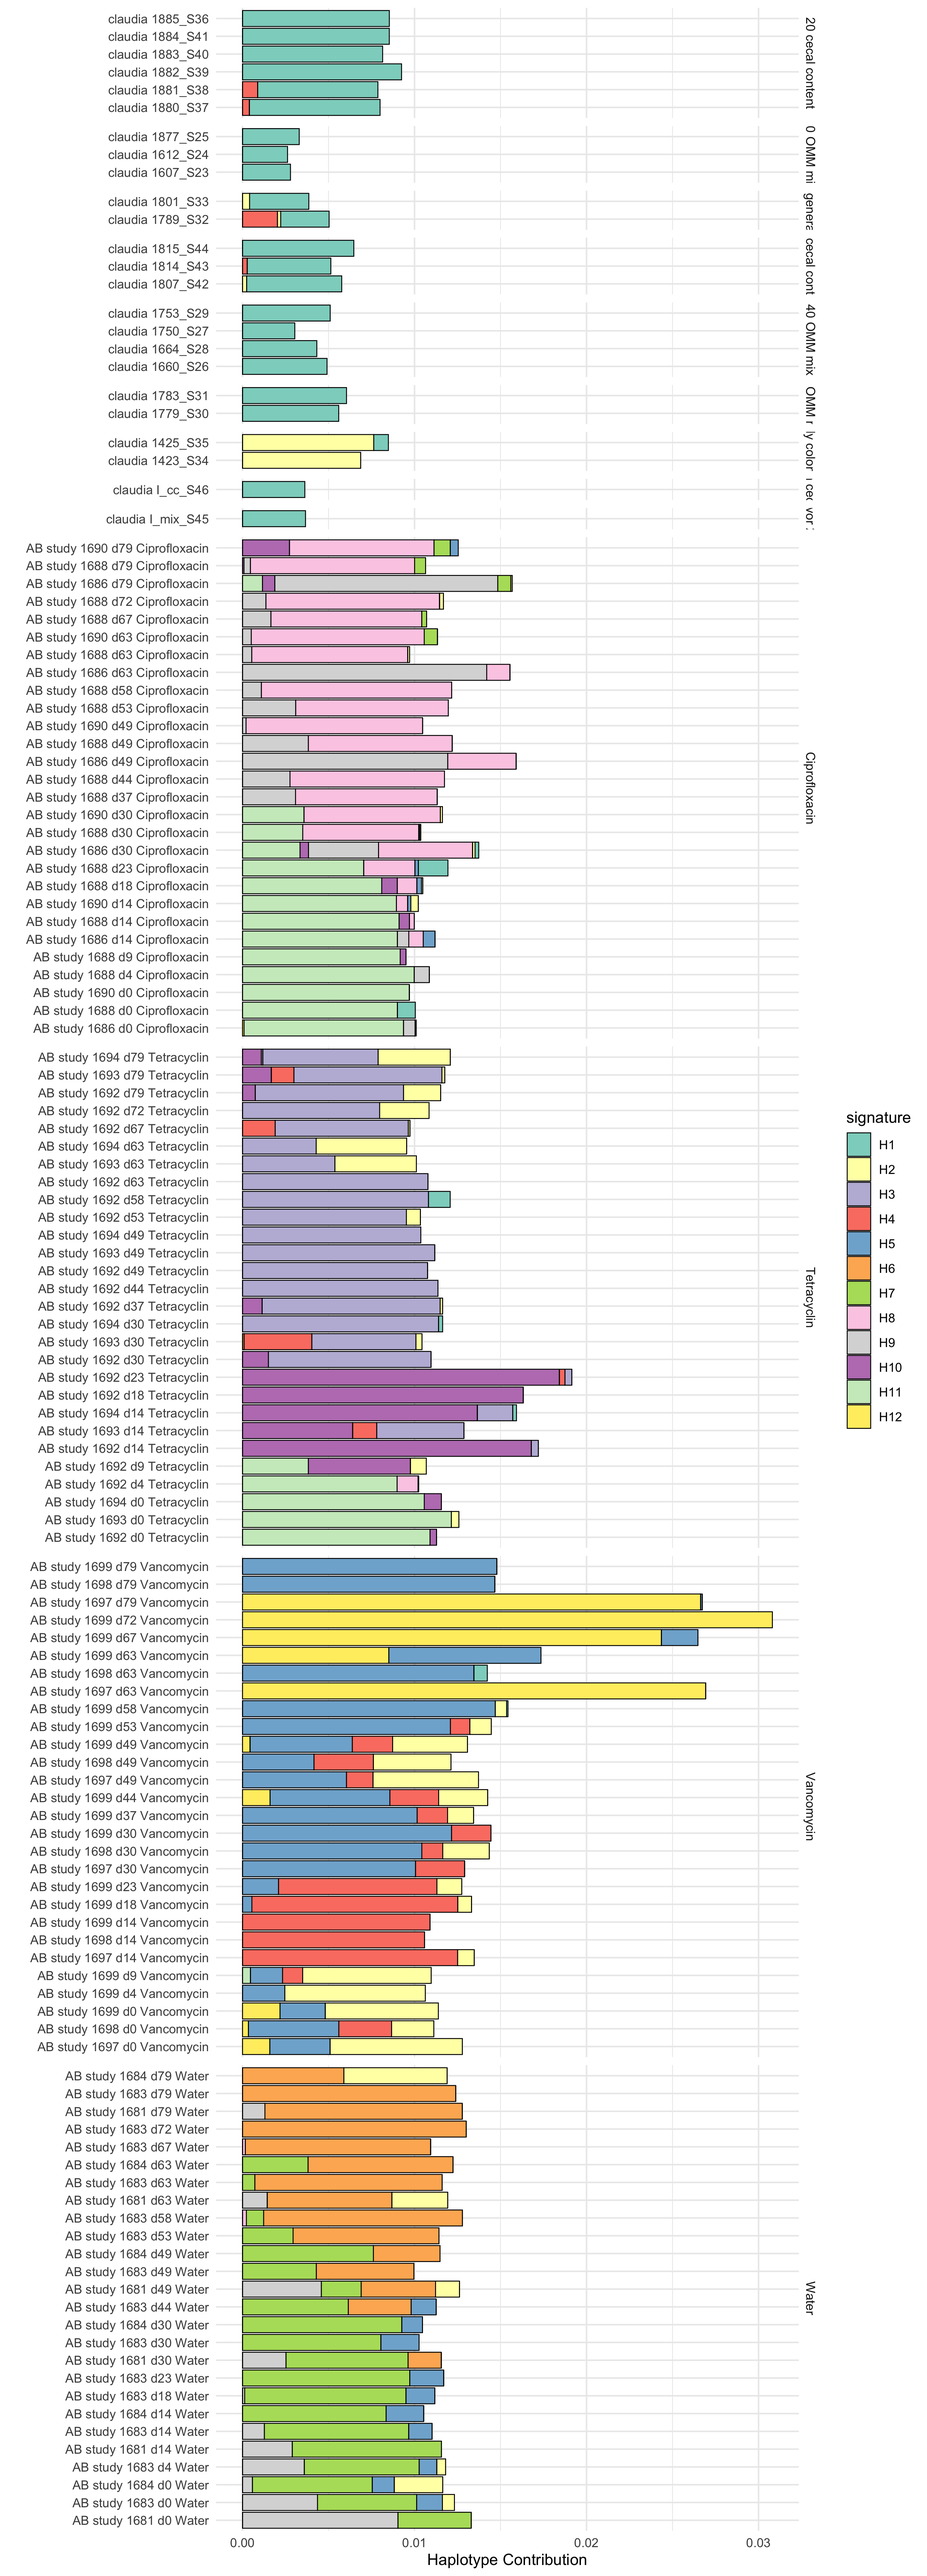
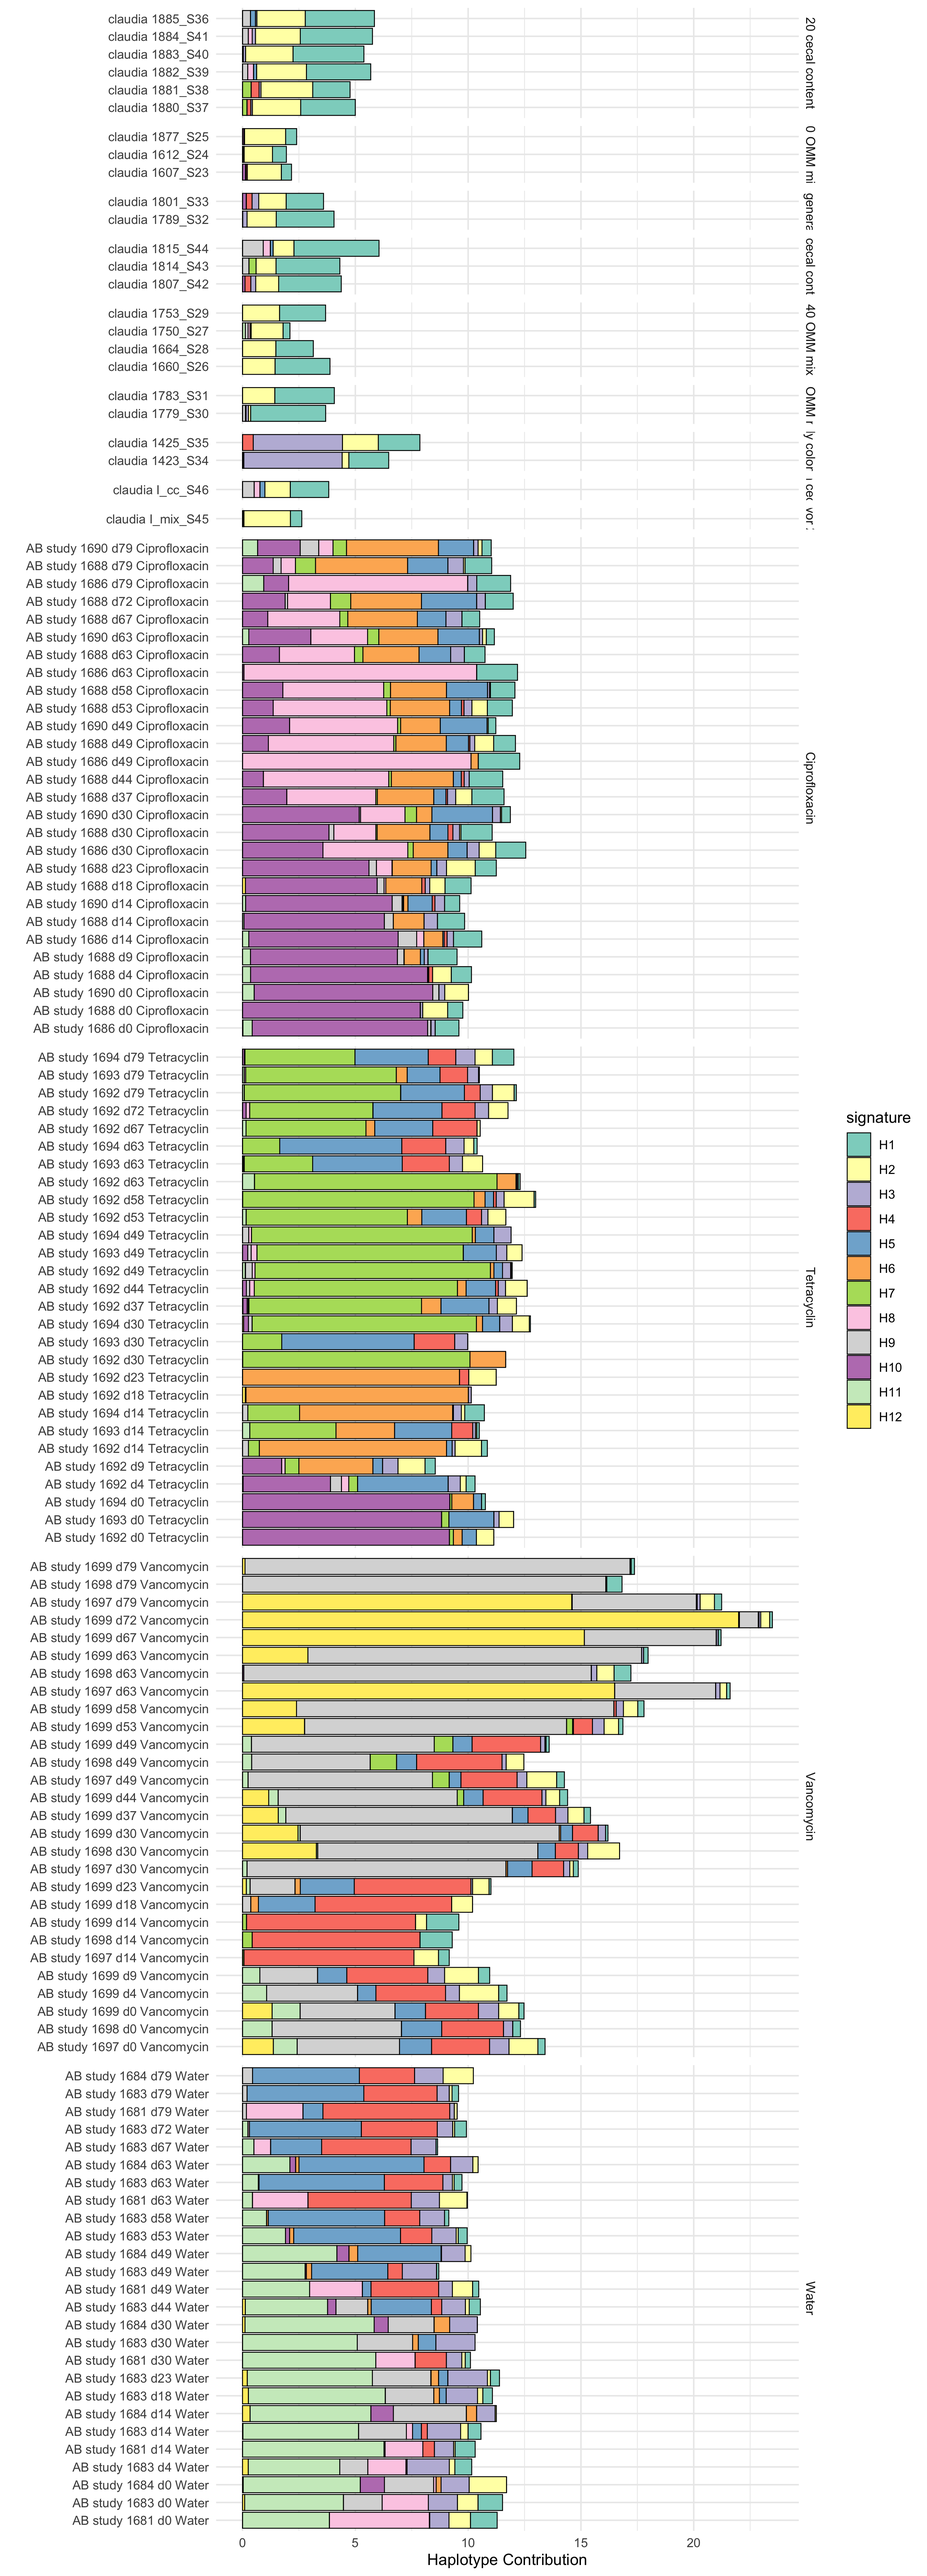
change NMF to lee since base method is unstable for this sparse data

Changed region(s): [[0.2489, 0.0, 0.84, 0.9984], [0.3733, 0.0, 0.4356, 0.0624]]

diff --git a/README.md b/README.md
@@ -64,7 +64,7 @@ We can visualize the SNP annotations for each Haplotype
 
 ```r
 data(omm_snp_annotation)
-plotHaplotypeAnnotation(decomposed, omm_snp_annotation, sig_threshold = 4)
+plotHaplotypeAnnotation(decomposed, omm_snp_annotation, sig_threshold = 0.001)
 ggsave("haplotypefunction.png", width = 12, height = 12)
 ```
 
